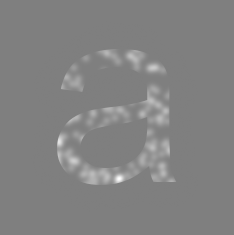
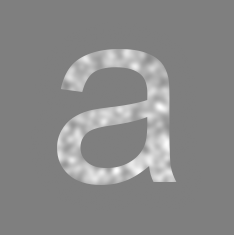
increase N bubbles for max sigma snippet

Changed region(s): [[0.2393, 0.2085, 0.7479, 0.8043]]

diff --git a/examples.py b/examples.py
@@ -66,7 +66,7 @@ a1, mask, mu_x, mu_y, sigma = bubbles.bubbles_mask_nonzero(im=a, sigma=[10,10,10
 a1.save(op.join('examples', 'a1.png'))
 
 # demonstrate that the space is unused
-a2, mask, mu_x, mu_y, sigma = bubbles.bubbles_mask_nonzero(im=a, sigma=np.repeat(3, repeats=150), bg=127, max_sigma_from_nonzero=1)
+a2, mask, mu_x, mu_y, sigma = bubbles.bubbles_mask_nonzero(im=a, sigma=np.repeat(3, repeats=1000), bg=127, max_sigma_from_nonzero=1)
 
 a2.save(op.join('examples', 'a2.png'))
 

diff --git a/README.md b/README.md
@@ -147,7 +147,7 @@ Here is a snippet demonstrating that `bubbles_mask_nonzero()` only selects bubbl
 
 ```python
 a2, mask, mu_x, mu_y, sigma = bubbles.bubbles_mask_nonzero(
-    im=a, sigma=np.repeat(3, repeats=150), bg=127, max_sigma_from_nonzero=1
+    im=a, sigma=np.repeat(3, repeats=1000), bg=127, max_sigma_from_nonzero=1
 )
 
 a_arr = np.asarray(a).copy()
